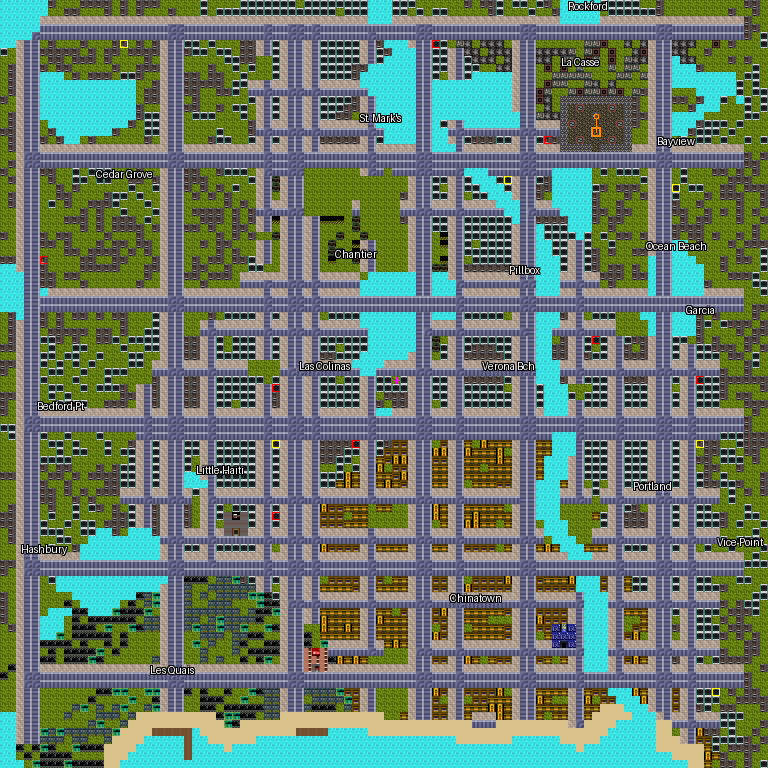
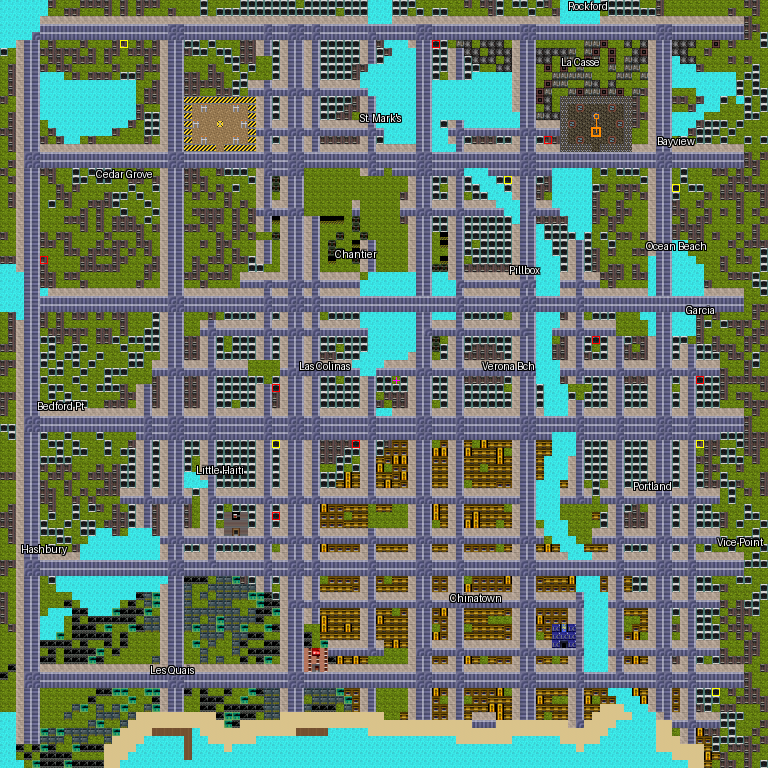
feat(chantier): enceinte de chantier reconnaissable (comme La Casse)
Le Chantier n'avait que des facades generiques. On lui donne le meme
traitement que La Casse : 4 tuiles dediees (cons_ground terre damee
carrossable, cons_fence palissade de danger jaune/noir, cons_frame
ossature beton, cons_crane base de grue a tour) + une enceinte tamponnee
(CONS_BLUEPRINT / place_construction) dans le district construction, avec
entree bordee par une route. place_construction evite de recouvrir les
autres POI deja poses (Casse, stamps, quais).

Tests pois etendus (enceinte, palissade, ossatures, entree, determinisme,
repli). Map regeneree. Flash 55% (+516 o).

Changed region(s): [[0.2188, 0.125, 0.3438, 0.2188]]

diff --git a/gta/citymap_data.cpp b/gta/citymap_data.cpp
@@ -14,13 +14,13 @@ const uint8_t cityMap[CITY_H*CITY_W] = {
   0, 6, 4, 2, 2, 5, 5, 5, 0, 6, 0, 6, 6, 6, 0, 7, 7, 6, 0, 0, 4, 2, 2, 6, 6, 0, 6, 6, 0, 0, 7, 0, 0, 0, 7, 4, 2, 2, 4, 2, 7, 7, 7, 7, 6, 5, 5, 5, 5, 5, 5, 5, 2, 2, 7, 0, 4, 2, 7, 5, 5, 5, 5, 5, 4, 2, 2, 0, 0, 26, 26, 26, 26, 26, 0, 0, 0, 26, 26, 0, 26, 4, 2, 2, 5, 5, 5, 5, 5, 5, 5, 5, 0, 7, 7, 0,
   0, 6, 4, 2, 2, 5, 5, 5, 5, 5, 5, 5, 5, 5, 5, 5, 5, 0, 0, 6, 4, 2, 2, 6, 6, 6, 6, 6, 0, 7, 7, 4, 4, 2, 4, 4, 2, 2, 4, 2, 4, 4, 4, 4, 4, 5, 5, 5, 5, 5, 5, 5, 2, 2, 5, 5, 5, 5, 5, 5, 5, 5, 5, 5, 4, 2, 2, 0, 28, 26, 26, 0, 0, 26, 27, 0, 27, 0, 0, 0, 0, 4, 2, 2, 5, 5, 5, 5, 5, 5, 5, 5, 7, 0, 7, 0,
   0, 6, 4, 2, 2, 5, 5, 5, 5, 5, 5, 5, 5, 5, 5, 5, 5, 0, 6, 6, 4, 2, 2, 6, 6, 0, 0, 6, 6, 7, 0, 1, 1, 3, 1, 1, 3, 3, 1, 3, 1, 1, 1, 1, 1, 1, 5, 5, 5, 5, 5, 5, 2, 2, 5, 5, 5, 5, 5, 5, 5, 5, 5, 5, 4, 2, 2, 28, 26, 0, 0, 26, 28, 26, 26, 28, 26, 28, 0, 26, 6, 4, 2, 2, 0, 0, 0, 5, 5, 5, 5, 5, 7, 0, 7, 7,
-  6, 0, 4, 2, 2, 5, 5, 5, 5, 5, 5, 5, 5, 5, 5, 5, 5, 0, 6, 6, 4, 2, 2, 0, 6, 0, 0, 0, 0, 0, 0, 7, 4, 2, 7, 4, 2, 2, 4, 2, 7, 7, 7, 7, 6, 4, 2, 5, 5, 5, 5, 5, 2, 2, 5, 5, 5, 5, 5, 5, 5, 5, 5, 5, 4, 2, 2, 28, 27, 0, 32, 32, 32, 32, 32, 32, 32, 32, 32, 6, 0, 4, 2, 2, 6, 6, 0, 6, 5, 5, 7, 0, 5, 7, 0, 7,
-  0, 0, 4, 2, 2, 5, 5, 5, 5, 5, 5, 5, 5, 5, 5, 5, 5, 6, 0, 0, 4, 2, 2, 6, 6, 0, 0, 6, 0, 7, 7, 0, 4, 2, 7, 4, 2, 2, 4, 2, 7, 7, 7, 6, 6, 4, 2, 5, 5, 5, 5, 5, 2, 2, 5, 5, 5, 5, 5, 5, 5, 5, 5, 5, 4, 2, 2, 0, 27, 0, 32, 31, 33, 31, 31, 31, 33, 31, 32, 6, 0, 4, 2, 2, 0, 0, 6, 5, 5, 5, 0, 0, 0, 7, 0, 7,
-  0, 6, 4, 2, 2, 5, 5, 5, 5, 5, 5, 5, 5, 5, 5, 5, 5, 6, 7, 7, 4, 2, 2, 0, 7, 7, 7, 0, 0, 0, 7, 0, 4, 2, 7, 4, 2, 2, 4, 2, 7, 7, 6, 6, 0, 4, 2, 5, 5, 5, 5, 5, 2, 2, 5, 5, 5, 5, 5, 5, 5, 5, 5, 5, 5, 2, 2, 26, 27, 27, 32, 31, 31, 31, 34, 31, 31, 31, 32, 6, 6, 4, 2, 2, 5, 5, 5, 5, 0, 0, 0, 0, 0, 7, 7, 0,
-  0, 6, 4, 2, 2, 0, 5, 5, 5, 5, 5, 5, 5, 5, 5, 5, 6, 0, 7, 7, 4, 2, 2, 0, 0, 0, 0, 0, 0, 0, 0, 6, 4, 2, 4, 4, 2, 2, 4, 2, 4, 4, 4, 4, 4, 4, 2, 5, 5, 5, 5, 5, 2, 2, 5, 7, 4, 2, 5, 5, 5, 5, 5, 5, 5, 2, 2, 4, 4, 4, 32, 33, 31, 31, 31, 31, 31, 33, 32, 6, 0, 4, 2, 2, 5, 5, 5, 6, 7, 7, 7, 0, 7, 0, 0, 0,
-  6, 6, 4, 2, 2, 0, 6, 5, 5, 5, 5, 5, 5, 5, 6, 0, 0, 0, 7, 7, 4, 2, 2, 0, 0, 0, 0, 7, 0, 0, 0, 6, 1, 3, 1, 1, 3, 3, 1, 3, 1, 1, 1, 1, 1, 1, 3, 1, 5, 5, 5, 5, 2, 2, 5, 5, 1, 3, 1, 1, 1, 1, 1, 1, 1, 3, 3, 1, 1, 1, 32, 31, 31, 31, 31, 31, 31, 31, 32, 0, 0, 4, 2, 2, 5, 5, 6, 7, 7, 7, 0, 7, 0, 0, 0, 0,
-  0, 6, 4, 2, 2, 6, 0, 6, 5, 5, 0, 6, 0, 0, 0, 0, 0, 0, 6, 0, 4, 2, 2, 0, 0, 0, 6, 7, 7, 0, 0, 7, 4, 2, 7, 4, 2, 2, 4, 2, 6, 6, 6, 6, 6, 4, 2, 7, 5, 5, 5, 5, 2, 2, 5, 5, 4, 2, 7, 6, 6, 6, 7, 7, 4, 2, 2, 7, 6, 6, 32, 31, 33, 31, 31, 31, 33, 31, 32, 0, 0, 4, 2, 2, 0, 7, 0, 7, 7, 0, 7, 0, 0, 7, 0, 7,
-  0, 6, 4, 2, 2, 4, 4, 4, 4, 4, 4, 4, 4, 4, 4, 4, 4, 4, 4, 4, 4, 2, 2, 4, 4, 4, 4, 4, 4, 4, 4, 4, 4, 2, 4, 4, 2, 2, 4, 2, 4, 4, 4, 4, 4, 4, 2, 4, 4, 4, 4, 4, 2, 2, 5, 5, 5, 2, 4, 4, 4, 4, 4, 4, 4, 2, 2, 4, 4, 4, 32, 32, 32, 32, 31, 32, 32, 32, 32, 4, 4, 4, 2, 2, 4, 4, 4, 4, 4, 4, 4, 4, 4, 0, 0, 0,
+  6, 0, 4, 2, 2, 5, 5, 5, 5, 5, 5, 5, 5, 5, 5, 5, 5, 0, 6, 6, 4, 2, 2, 36, 36, 36, 36, 36, 36, 36, 36, 36, 4, 2, 7, 4, 2, 2, 4, 2, 7, 7, 7, 7, 6, 4, 2, 5, 5, 5, 5, 5, 2, 2, 5, 5, 5, 5, 5, 5, 5, 5, 5, 5, 4, 2, 2, 28, 27, 0, 32, 32, 32, 32, 32, 32, 32, 32, 32, 6, 0, 4, 2, 2, 6, 6, 0, 6, 5, 5, 7, 0, 5, 7, 0, 7,
+  0, 0, 4, 2, 2, 5, 5, 5, 5, 5, 5, 5, 5, 5, 5, 5, 5, 6, 0, 0, 4, 2, 2, 36, 35, 37, 35, 35, 35, 37, 35, 36, 4, 2, 7, 4, 2, 2, 4, 2, 7, 7, 7, 6, 6, 4, 2, 5, 5, 5, 5, 5, 2, 2, 5, 5, 5, 5, 5, 5, 5, 5, 5, 5, 4, 2, 2, 0, 27, 0, 32, 31, 33, 31, 31, 31, 33, 31, 32, 6, 0, 4, 2, 2, 0, 0, 6, 5, 5, 5, 0, 0, 0, 7, 0, 7,
+  0, 6, 4, 2, 2, 5, 5, 5, 5, 5, 5, 5, 5, 5, 5, 5, 5, 6, 7, 7, 4, 2, 2, 36, 35, 35, 35, 35, 35, 35, 35, 36, 4, 2, 7, 4, 2, 2, 4, 2, 7, 7, 6, 6, 0, 4, 2, 5, 5, 5, 5, 5, 2, 2, 5, 5, 5, 5, 5, 5, 5, 5, 5, 5, 5, 2, 2, 26, 27, 27, 32, 31, 31, 31, 34, 31, 31, 31, 32, 6, 6, 4, 2, 2, 5, 5, 5, 5, 0, 0, 0, 0, 0, 7, 7, 0,
+  0, 6, 4, 2, 2, 0, 5, 5, 5, 5, 5, 5, 5, 5, 5, 5, 6, 0, 7, 7, 4, 2, 2, 36, 37, 35, 35, 38, 35, 35, 37, 36, 4, 2, 4, 4, 2, 2, 4, 2, 4, 4, 4, 4, 4, 4, 2, 5, 5, 5, 5, 5, 2, 2, 5, 7, 4, 2, 5, 5, 5, 5, 5, 5, 5, 2, 2, 4, 4, 4, 32, 33, 31, 31, 31, 31, 31, 33, 32, 6, 0, 4, 2, 2, 5, 5, 5, 6, 7, 7, 7, 0, 7, 0, 0, 0,
+  6, 6, 4, 2, 2, 0, 6, 5, 5, 5, 5, 5, 5, 5, 6, 0, 0, 0, 7, 7, 4, 2, 2, 36, 35, 35, 35, 35, 35, 35, 35, 36, 1, 3, 1, 1, 3, 3, 1, 3, 1, 1, 1, 1, 1, 1, 3, 1, 5, 5, 5, 5, 2, 2, 5, 5, 1, 3, 1, 1, 1, 1, 1, 1, 1, 3, 3, 1, 1, 1, 32, 31, 31, 31, 31, 31, 31, 31, 32, 0, 0, 4, 2, 2, 5, 5, 6, 7, 7, 7, 0, 7, 0, 0, 0, 0,
+  0, 6, 4, 2, 2, 6, 0, 6, 5, 5, 0, 6, 0, 0, 0, 0, 0, 0, 6, 0, 4, 2, 2, 36, 35, 37, 35, 35, 35, 37, 35, 36, 4, 2, 7, 4, 2, 2, 4, 2, 6, 6, 6, 6, 6, 4, 2, 7, 5, 5, 5, 5, 2, 2, 5, 5, 4, 2, 7, 6, 6, 6, 7, 7, 4, 2, 2, 7, 6, 6, 32, 31, 33, 31, 31, 31, 33, 31, 32, 0, 0, 4, 2, 2, 0, 7, 0, 7, 7, 0, 7, 0, 0, 7, 0, 7,
+  0, 6, 4, 2, 2, 4, 4, 4, 4, 4, 4, 4, 4, 4, 4, 4, 4, 4, 4, 4, 4, 2, 2, 36, 36, 36, 36, 35, 36, 36, 36, 36, 4, 2, 4, 4, 2, 2, 4, 2, 4, 4, 4, 4, 4, 4, 2, 4, 4, 4, 4, 4, 2, 2, 5, 5, 5, 2, 4, 4, 4, 4, 4, 4, 4, 2, 2, 4, 4, 4, 32, 32, 32, 32, 31, 32, 32, 32, 32, 4, 4, 4, 2, 2, 4, 4, 4, 4, 4, 4, 4, 4, 4, 0, 0, 0,
   0, 0, 4, 3, 3, 1, 1, 1, 1, 1, 1, 1, 1, 1, 1, 1, 1, 1, 1, 1, 1, 3, 3, 1, 1, 1, 1, 1, 1, 1, 1, 1, 1, 3, 1, 1, 3, 3, 1, 1, 1, 1, 1, 1, 1, 1, 3, 1, 1, 1, 1, 1, 3, 3, 1, 1, 1, 1, 1, 1, 1, 1, 1, 1, 1, 3, 3, 1, 1, 1, 1, 1, 1, 1, 1, 1, 1, 1, 1, 1, 1, 1, 3, 3, 1, 1, 1, 1, 1, 1, 1, 1, 1, 6, 0, 6,
   0, 6, 4, 3, 3, 1, 1, 1, 1, 1, 1, 1, 1, 1, 1, 1, 1, 1, 1, 1, 1, 3, 3, 1, 1, 1, 1, 1, 1, 1, 1, 1, 1, 3, 1, 1, 3, 3, 1, 1, 1, 1, 1, 1, 1, 1, 3, 1, 1, 1, 1, 1, 3, 3, 1, 1, 1, 1, 1, 1, 1, 1, 1, 1, 1, 3, 3, 1, 1, 1, 1, 1, 1, 1, 1, 1, 1, 1, 1, 1, 1, 1, 3, 3, 1, 1, 1, 1, 1, 1, 1, 1, 1, 6, 6, 0,
   6, 0, 4, 2, 2, 6, 6, 0, 0, 7, 0, 7, 7, 7, 0, 0, 0, 6, 0, 0, 4, 2, 2, 6, 6, 0, 0, 6, 7, 7, 7, 0, 4, 3, 1, 1, 3, 3, 0, 0, 0, 0, 0, 0, 0, 4, 3, 1, 0, 1, 1, 1, 3, 3, 1, 1, 1, 3, 5, 5, 5, 1, 1, 1, 1, 3, 3, 1, 1, 5, 5, 5, 5, 5, 0, 7, 0, 7, 7, 7, 0, 4, 2, 2, 0, 7, 0, 0, 0, 6, 6, 0, 6, 0, 6, 0,

diff --git a/tools/pois.py b/tools/pois.py
@@ -545,6 +545,104 @@ def place_junkyard(grid, district_id, assign, tile_index, w, h, margin=2):
                 entrance=(x + ecol, y + erow))
 
 
+# --- enceinte du Chantier (chantier de construction clôturé) ----------------
+# Même principe que La Casse : on TAMPONNE un vrai chantier dans le district
+# construction -> palissade de danger tout autour (cons_fence, solide), sol de
+# terre damee carrossable (cons_ground), ossatures beton (cons_frame, solides,
+# rendues comme des batiments -> zero cout CPU) et base de grue a tour
+# (cons_crane). Une seule ouverture (entree) bordee par une route au sud.
+#
+# Legende : G=palissade  .=terre  F=ossature  K=base de grue
+#           (l'unique '.' de la derniere ligne = entree, route exigee au sud).
+CONS_BLUEPRINT = (
+    "GGGGGGGGG",
+    "G.F...F.G",
+    "G.......G",
+    "GF..K..FG",
+    "G.......G",
+    "G.F...F.G",
+    "GGGG.GGGG",
+)
+CONS_TILE_OF = {"G": "cons_fence", ".": "cons_ground",
+                "F": "cons_frame", "K": "cons_crane"}
+
+
+def construction_tiles_available(tile_index):
+    """Vrai si les 4 tuiles du chantier sont dans le tileset."""
+    return all(t in tile_index for t in CONS_TILE_OF.values())
+
+
+def place_construction(grid, district_id, assign, tile_index, w, h, margin=2):
+    """Tamponne l'enceinte du Chantier dans le district construction.
+
+    Strictement calquee sur `place_junkyard` : cherche une fenetre de la taille
+    du blueprint, libre de route/eau, dont l'entree (bas-centre) est bordee par
+    une route au sud ; priorite aux fenetres dans le district construction puis
+    proches de son centroide (deterministe). Renvoie {crane:(tx,ty),
+    entrance:(tx,ty)} en TUILES, ou None (tuiles/theme/fenetre absents)."""
+    if not construction_tiles_available(tile_index):
+        return None
+    cons = [d for d, t in assign.items() if t == THEME_CONSTRUCTION]
+    if not cons:
+        return None
+    cd = cons[0]
+    bh, bw = len(CONS_BLUEPRINT), len(CONS_BLUEPRINT[0])
+    roads = {tile_index[n] for n in ("road_h", "road_v", "road_cross")
+             if n in tile_index}
+    if not roads:
+        return None
+    water = tile_index.get("water")
+    # Tuiles a NE PAS recouvrir : routes/eau + autres POI deja tamponnes
+    # (l'enceinte de La Casse, les stamps police/hopital/pompiers, les quais).
+    # Le Chantier est place APRES eux (cf. citygen 8f->8g) : on les evite.
+    protect = set(roads)
+    if water is not None:
+        protect.add(water)
+    for n in ("junk_ground", "junk_fence", "junk_wreck", "junk_crane",
+              "dock", "sand", "police_door", "police_facade", "police_sign",
+              "hosp_door", "hosp_facade", "hosp_sign",
+              "fire_door", "fire_facade", "fire_sign"):
+        if n in tile_index:
+            protect.add(tile_index[n])
+    erow = bh - 1
+    ecol = CONS_BLUEPRINT[erow].index(".")          # entree (gap du bas)
+
+    cells = [i for i in range(w * h) if district_id[i] == cd]
+    if not cells:
+        return None
+    cx = sum(i % w for i in cells) // len(cells)
+    cy = sum(i // w for i in cells) // len(cells)
+
+    cands = []
+    for y in range(margin, h - margin - bh):
+        for x in range(margin, w - margin - bw):
+            block = [(y + ry) * w + (x + rx)
+                     for ry in range(bh) for rx in range(bw)]
+            if any(grid[c] in protect for c in block):
+                continue
+            ey, ex = y + erow, x + ecol             # case d'entree
+            if ey + 1 >= h or grid[(ey + 1) * w + ex] not in roads:
+                continue                            # route exigee juste au sud
+            ccx, ccy = x + bw // 2, y + bh // 2
+            inc = 0 if district_id[ccy * w + ccx] == cd else 1
+            d = (ccx - cx) ** 2 + (ccy - cy) ** 2
+            cands.append((inc, d, y, x, block))
+    if not cands:
+        return None
+    cands.sort()                                    # district d'abord, puis centroide
+    _, _, y, x, block = cands[0]
+    for ci, c in enumerate(block):
+        ry, rx = divmod(ci, bw)
+        grid[c] = tile_index[CONS_TILE_OF[CONS_BLUEPRINT[ry][rx]]]
+    kr = kc = None
+    for ry, row in enumerate(CONS_BLUEPRINT):
+        cpos = row.find("K")
+        if cpos >= 0:
+            kr, kc = ry, cpos
+            break
+    return dict(crane=(x + kc, y + kr), entrance=(x + ecol, y + erow))
+
+
 def place_services(grid, tile_index, seed, w, h, occupied=None):
     """Positions des Pay'n'Spray et AMU Nation -> (sprays, ammus) en TUILES.
 

diff --git a/tools/tests/test_pois.py b/tools/tests/test_pois.py
@@ -16,11 +16,12 @@ NAMES = ["grass", "road_h", "road_v", "road_cross", "pavement", "water",
          "port_facade_a", "port_facade_b", "port_sign",
          "cons_facade_a", "cons_facade_b", "cons_sign",
          "junk_facade_a", "junk_facade_b", "junk_sign",
-         "junk_ground", "junk_fence", "junk_wreck", "junk_crane"]
+         "junk_ground", "junk_fence", "junk_wreck", "junk_crane",
+         "cons_ground", "cons_fence", "cons_frame", "cons_crane"]
 TI = {n: i for i, n in enumerate(NAMES)}
 DOORS = {"police_door", "hosp_door", "fire_door"}
-# non solides parmi les tuiles POI : portes + sol de casse (carrossable)
-NONSOLID = DOORS | {"junk_ground"}
+# non solides parmi les tuiles POI : portes + sols carrossables (casse, chantier)
+NONSOLID = DOORS | {"junk_ground", "cons_ground"}
 # solides : water/building + toutes les tuiles POI sauf portes / sol de casse
 SI = {TI["water"], TI["building_a"], TI["building_b"]} | \
      {i for i, n in enumerate(NAMES) if i >= 8 and n not in NONSOLID}
@@ -256,6 +257,56 @@ def test_place_junkyard_none_without_theme_or_tiles():
     assert pois.place_junkyard(grid, [0] * (16 * 16), {}, TI, 16, 16) is None
     assert pois.place_junkyard(grid, [0] * (16 * 16), {0: THEME_JUNKYARD},
                                TI8, 16, 16) is None
+
+
+# ----- enceinte du Chantier (place_construction) ----------------------------
+
+def test_construction_compound_stamped_in_full_gen():
+    # la generation complete tamponne le chantier : base de grue sur cons_crane.
+    c = _gen()
+    assert c.chantier is not None
+    kx, ky = c.chantier["crane"]
+    assert c.grid[ky * c.w + kx] == TI["cons_crane"], "base de grue = cons_crane"
+
+
+def test_construction_compound_fenced_and_has_frames():
+    # autour de la grue : palissade (cons_fence) + ossatures beton (cons_frame).
+    c = _gen()
+    kx, ky = c.chantier["crane"]
+    seen = Counter(c.get(kx + dx, ky + dy)
+                   for dy in range(-5, 6) for dx in range(-6, 7)
+                   if 0 <= kx + dx < c.w and 0 <= ky + dy < c.h)
+    assert seen[TI["cons_fence"]] > 0, "palissade absente autour du chantier"
+    assert seen[TI["cons_frame"]] > 0, "aucune ossature beton dans le chantier"
+
+
+def test_construction_ground_carrossable():
+    # le sol de chantier (terre damee) est carrossable (non solide).
+    c = _gen()
+    assert TI["cons_ground"] not in SI
+
+
+def test_construction_entrance_borders_a_road():
+    c = _gen()
+    grid, w = c.grid, c.w
+    gap = None
+    for y in range(c.h - 1):
+        for x in range(w):
+            if grid[y * w + x] == TI["cons_ground"] and grid[(y + 1) * w + x] in ROADS:
+                gap = (x, y)
+    assert gap is not None, "aucune entree de chantier bordant une route"
+
+
+def test_construction_deterministic():
+    a, b = _gen(seed=11), _gen(seed=11)
+    assert a.chantier == b.chantier
+
+
+def test_place_construction_none_without_theme_or_tiles():
+    grid = [TI["grass"]] * (16 * 16)
+    assert pois.place_construction(grid, [0] * (16 * 16), {}, TI, 16, 16) is None
+    assert pois.place_construction(grid, [0] * (16 * 16),
+                                   {0: THEME_CONSTRUCTION}, TI8, 16, 16) is None
 
 
 # ----- place_casse / place_crane (repli quand l'enceinte ne tient pas) -------

diff --git a/gta/assets_data.cpp b/gta/assets_data.cpp
@@ -352,9 +352,49 @@ const uint16_t tileset[NUM_TILES][TILE_W*TILE_H] = {
   0x4A4A, 0x39E8, 0x39E8, 0x8C72, 0x8C72, 0x39E8, 0x39E8, 0x4A4A,
   0x4A4A, 0x4A4A, 0x4A4A, 0x4A4A, 0x4A4A, 0x4A4A, 0x4A4A, 0x4A4A
   },
+  { // cons_ground
+  0x93CA, 0x93CA, 0xB48D, 0x93CA, 0x93CA, 0x93CA, 0x93CA, 0x7B28,
+  0x93CA, 0x7B28, 0x93CA, 0x93CA, 0x93CA, 0x93CA, 0xB48D, 0x93CA,
+  0x93CA, 0x93CA, 0x93CA, 0x93CA, 0x93CA, 0x7B28, 0x93CA, 0x93CA,
+  0x93CA, 0x93CA, 0x93CA, 0x93CA, 0xB48D, 0x93CA, 0x93CA, 0x93CA,
+  0x7B28, 0x93CA, 0x93CA, 0x7B28, 0x93CA, 0x93CA, 0x93CA, 0x93CA,
+  0x93CA, 0xB48D, 0x93CA, 0x93CA, 0x93CA, 0x93CA, 0x7B28, 0x93CA,
+  0x93CA, 0x93CA, 0x7B28, 0x93CA, 0x93CA, 0xB48D, 0x93CA, 0x93CA,
+  0x93CA, 0x93CA, 0x93CA, 0xB48D, 0x93CA, 0x93CA, 0x93CA, 0x93CA
+  },
+  { // cons_fence
+  0x7BD0, 0x7BD0, 0x7BD0, 0x7BD0, 0x7BD0, 0x7BD0, 0x7BD0, 0x7BD0,
+  0xF643, 0x2104, 0x2104, 0xF643, 0xF643, 0x2104, 0x2104, 0xF643,
+  0x2104, 0x2104, 0xF643, 0xF643, 0x2104, 0x2104, 0xF643, 0xF643,
+  0x2104, 0xF643, 0xF643, 0x2104, 0x2104, 0xF643, 0xF643, 0x2104,
+  0xF643, 0xF643, 0x2104, 0x2104, 0xF643, 0xF643, 0x2104, 0x2104,
+  0xF643, 0x2104, 0x2104, 0xF643, 0xF643, 0x2104, 0x2104, 0xF643,
+  0x2104, 0x2104, 0xF643, 0xF643, 0x2104, 0x2104, 0xF643, 0xF643,
+  0x7BD0, 0x7BD0, 0x7BD0, 0x7BD0, 0x7BD0, 0x7BD0, 0x7BD0, 0x7BD0
+  },
+  { // cons_frame
+  0x93CA, 0xD3C5, 0xD3C5, 0x93CA, 0x93CA, 0xD3C5, 0xD3C5, 0x93CA,
+  0x93CA, 0xAD55, 0x7BD0, 0x93CA, 0x93CA, 0xAD55, 0x7BD0, 0x93CA,
+  0x93CA, 0xAD55, 0x7BD0, 0x93CA, 0x93CA, 0xAD55, 0x7BD0, 0x93CA,
+  0x93CA, 0xD69A, 0xD69A, 0xD69A, 0xD69A, 0xD69A, 0xD69A, 0x93CA,
+  0x93CA, 0xAD55, 0x7BD0, 0x93CA, 0x93CA, 0xAD55, 0x7BD0, 0x93CA,
+  0x93CA, 0xAD55, 0x7BD0, 0x93CA, 0x93CA, 0xAD55, 0x7BD0, 0x93CA,
+  0x93CA, 0xAD55, 0x7BD0, 0x93CA, 0x93CA, 0xAD55, 0x7BD0, 0x93CA,
+  0x93CA, 0xAD55, 0x7BD0, 0x93CA, 0x93CA, 0xAD55, 0x7BD0, 0x93CA
+  },
+  { // cons_crane
+  0x93CA, 0x93CA, 0x93CA, 0x93CA, 0x93CA, 0x93CA, 0x93CA, 0x93CA,
+  0x93CA, 0x2945, 0xF665, 0xF665, 0xF665, 0xF665, 0x2945, 0x93CA,
+  0x93CA, 0xF665, 0x2945, 0xF665, 0xF665, 0x2945, 0xF665, 0x93CA,
+  0x93CA, 0xF665, 0xF665, 0x94B3, 0x94B3, 0xF665, 0xF665, 0x93CA,
+  0x93CA, 0xF665, 0xF665, 0x94B3, 0x94B3, 0xF665, 0xF665, 0x93CA,
+  0x93CA, 0xF665, 0x2945, 0xF665, 0xF665, 0x2945, 0xF665, 0x93CA,
+  0x93CA, 0x2945, 0xF665, 0xF665, 0xF665, 0xF665, 0x2945, 0x93CA,
+  0x93CA, 0x93CA, 0x93CA, 0x93CA, 0x93CA, 0x93CA, 0x93CA, 0x93CA
+  },
 };
 
-const uint8_t tileFlags[NUM_TILES] = {0, 0, 0, 0, 0, 1, 1, 1, 1, 1, 1, 1, 1, 0, 1, 1, 0, 1, 1, 0, 1, 1, 1, 1, 1, 1, 1, 1, 1, 0, 0, 0, 1, 1, 1};
+const uint8_t tileFlags[NUM_TILES] = {0, 0, 0, 0, 0, 1, 1, 1, 1, 1, 1, 1, 1, 0, 1, 1, 0, 1, 1, 0, 1, 1, 1, 1, 1, 1, 1, 1, 1, 0, 0, 0, 1, 1, 1, 0, 1, 1, 1};
 
 const uint16_t playerSprite[4][PLAYER_FRAMES][PLAYER_W*PLAYER_H] = {
   { // DIR_NORTH

diff --git a/tools/citygen.py b/tools/citygen.py
@@ -537,6 +537,13 @@ def generate_into(city, seed, tile_index, solid_index,
                                       tile_index, solid_index, w, h)
         city.crane = pois.place_crane(city.grid, city.casse, tile_index, w, h)
 
+    # 8g. Le Chantier : meme traitement que La Casse -> on TAMPONNE une enceinte
+    # cloturee (palissade de danger + ossatures beton + base de grue) dans le
+    # district construction, pour qu'il RESSEMBLE a un chantier. Sans effet si
+    # tuiles/theme/fenetre absents (le quartier garde alors ses simples facades).
+    city.chantier = pois.place_construction(city.grid, district_id, assign,
+                                            tile_index, w, h)
+
     # 9. spawn
     city.spawn = pick_spawn(city.grid, w, h, solid_index, z, idx)
     return city.spawn

diff --git a/gta/assets.h b/gta/assets.h
@@ -2,7 +2,7 @@
 #pragma once
 #include <stdint.h>
 
-#define NUM_TILES 35
+#define NUM_TILES 39
 #define TILE_W 8
 #define TILE_H 8
 #define PLAYER_W 8
@@ -45,7 +45,11 @@ enum TileId : uint8_t {
   TILE_JUNK_GROUND,
   TILE_JUNK_FENCE,
   TILE_JUNK_WRECK,
-  TILE_JUNK_CRANE
+  TILE_JUNK_CRANE,
+  TILE_CONS_GROUND,
+  TILE_CONS_FENCE,
+  TILE_CONS_FRAME,
+  TILE_CONS_CRANE
 };
 
 enum Dir : uint8_t { DIR_NORTH=0, DIR_EAST, DIR_SOUTH, DIR_WEST };
